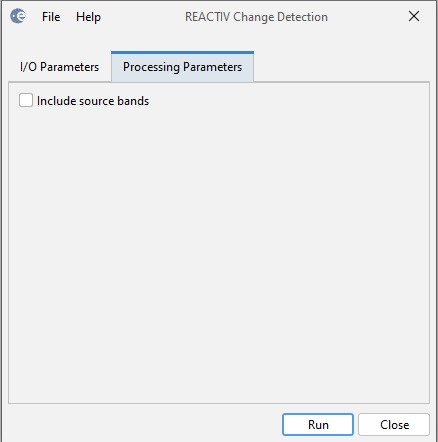
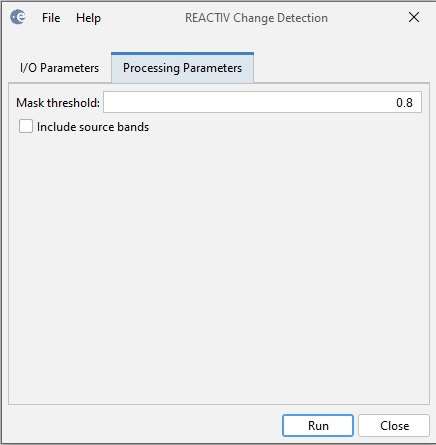
Updated

diff --git a/sar-op-feature-extraction-ui/src/main/resources/eu/esa/sar/fex/docs/operators/REACTIVChangeDetectionOp.html b/sar-op-feature-extraction-ui/src/main/resources/eu/esa/sar/fex/docs/operators/REACTIVChangeDetectionOp.html
@@ -4,7 +4,6 @@
 
     
     <title>Help - REACTIV Change Detection</title><link rel="stylesheet" href="../style.css"></head>
-
 <body>
 
 <table class="header">
@@ -54,9 +53,12 @@ polarizations (Figure 4). [1]<br><img style="width: 529px; height: 164px;" alt="
 <h4>Output</h4>
 <ul><li>The output of the operator is a product with hue, saturation and value bands.</li></ul><h4>Parameters Used</h4>&nbsp;&nbsp;&nbsp;The following parameters are used by the operator:
 <ol>
-    <li>Include source bands: if the checkbox is selected, all
+    <li>Mask threshold: threshold used in creating the change mask.
+Pixel with saturation value,&nbsp;which represents the intensity of
+change, that is greater than this threshold will be masked as 1,
+otherwise 0.</li><li>Include source bands: if the checkbox is selected, all
 bands&nbsp;of the source product will be included in the target product
-together with the hue, saturation and value bands. </li></ol><div style="margin-left: 40px;"><img style="width: 438px; height: 442px;" alt="" src="images/reactiv_change_detection_dlg.jpg">&nbsp;<br></div>
+together with the hue, saturation and value bands. </li></ol><div style="margin-left: 40px;"><img style="width: 436px; height: 445px;" alt="" src="images/reactiv_change_detection_dlg.jpg">&nbsp;<br></div>
 &nbsp;&nbsp;&nbsp; &nbsp;&nbsp;&nbsp; &nbsp;&nbsp;&nbsp; Figure 5. REACTIV Change Detection dialog box<br><p style="font-style: italic;">Reference:</p>
 
 <p> [1] Elise Colin Koeniguer, Alexandre Boulch, Pauline Trouve-Peloux
